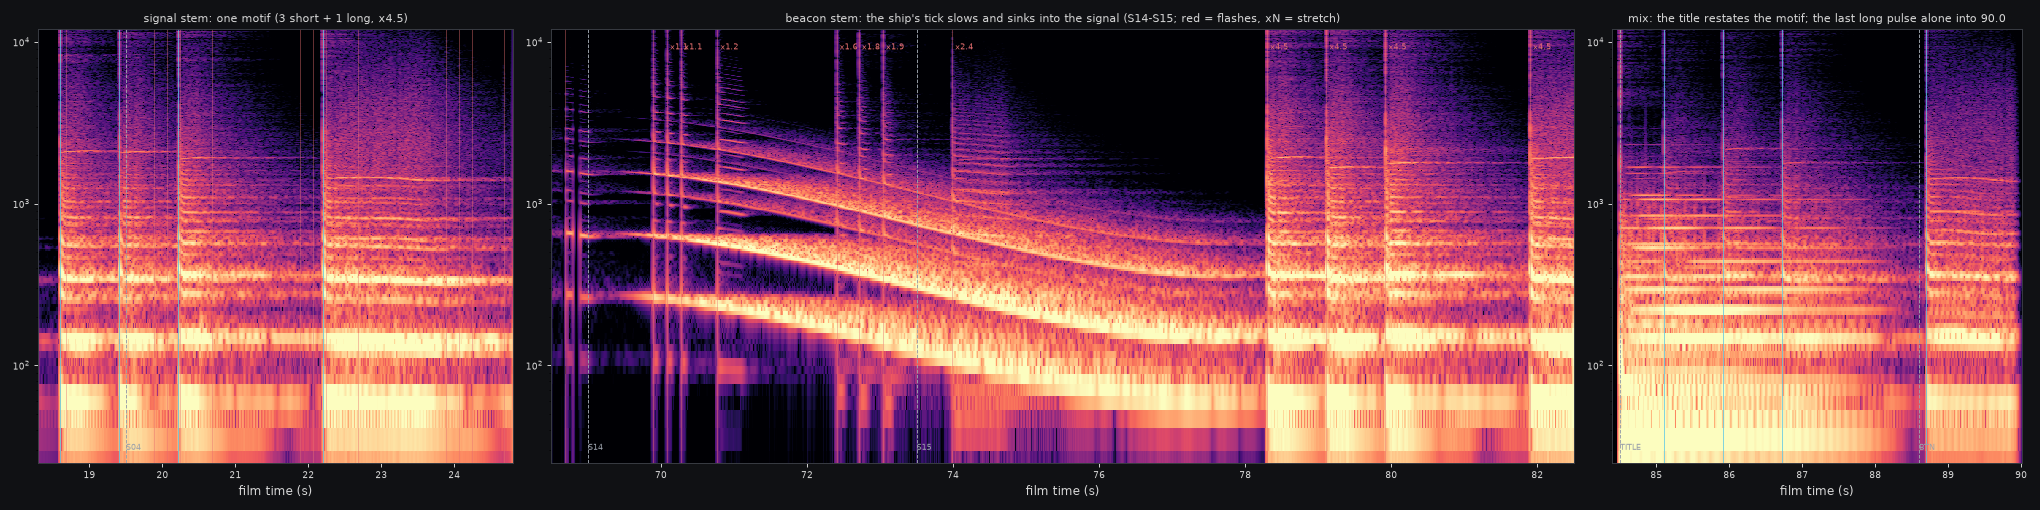
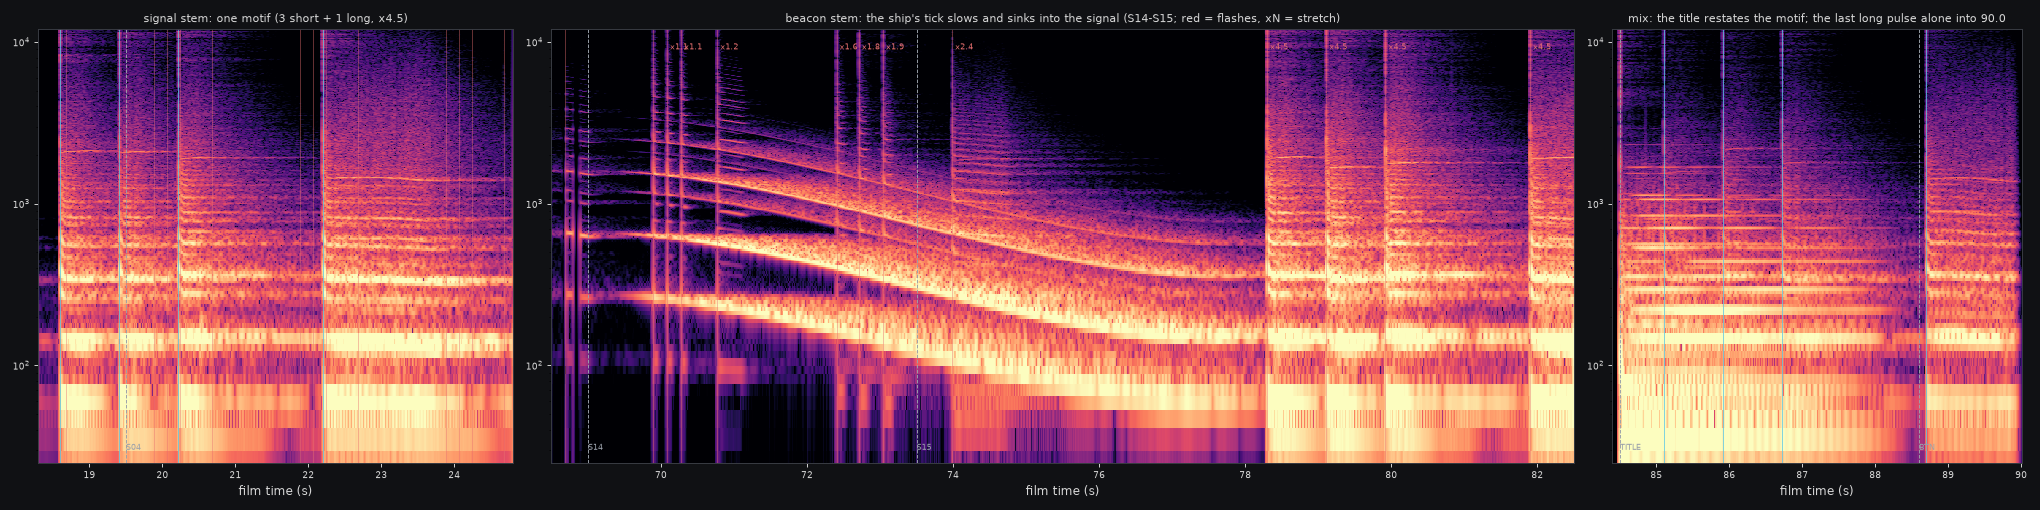
Audio rework levels (Act I +8 dB, LRA 12.4 LU, last motif above the signal); physics P21 steered clock; PROGRESS; render request tls90-preview-2
Claude-Session: https://claude.ai/code/session_012RKX6WzZMWJcPfeVrucKtW

diff --git a/production/audio/elements.py b/production/audio/elements.py
@@ -59,7 +59,7 @@ def ride_db(t: float) -> float:
     return float(np.interp(t, [a for a, _ in ACT_RIDE], [b for _, b in ACT_RIDE]))
 
 
-LAST_MOTIF_DB = 7.0        # the fall's last motif (the ship as the signal) sits above the signal's level
+LAST_MOTIF_DB = 8.5        # the fall's last motif (the ship as the signal) sits above the signal's level
 WARP_BETA = 0.45           # sound time-dilation = (dtau/dt)^beta (cinema: physical beta = 1)
 SOUND_MAX_STRETCH = 10.0   # cap for the sound of a flash (x25 would put the root at 26 Hz)
 
@@ -669,7 +669,7 @@ def cue_braam(mix, cue) -> None:
     t0 = cue.t + 0.8
     t_end = S("S12", cue.t + 14.0)
     m = n_of(t_end - t0 + 1.0)
-    lv = dsp.curve(m, [(t0, -60), (t0 + 3.0, -31), (t_end - 3.0, -30), (t_end, -28), (t_end + 1.0, -60)], t0, "db")
+    lv = dsp.curve(m, [(t0, -60), (t0 + 3.0, -27), (t_end - 3.0, -26), (t_end, -25), (t_end + 1.0, -60)], t0, "db")
     ch = np.stack([motif_cluster(D2 * (1 + (-1) ** c * 0.0006), m, dsp.curve(m, [(0, 0.3), (6.0, 1.0), (m / SR, 1.0)]),
                                  dsp.curve(m, [(0, 3.0), (m / SR, 9.0)]), f"awe{c}") for c in range(2)], 1)
     ch += 0.5 * np.stack([motif_cluster(D3, m, 0.45, 5.0, f"aweh{c}") for c in range(2)], 1)
@@ -745,7 +745,7 @@ def cue_shepard_riser(mix, cue) -> None:
     u2 = np.clip((t - (T_SLOW - t0)) / max(t1 - T_SLOW, 0.1), 0, 1)
     root = D2 * 2.0 ** (2.0 * u ** 1.7 + 0.5 * u2)
     y = motif_cluster(root, n, 0.15 + 0.85 * u, 3.0 + 16.0 * u, "rise")
-    lvl = dsp.curve(n, [(t0, -60), (t0 + 1.0, -40), (S("S13", 65.0), -30), (T_SLOW, -22), (max(t1, T_SLOW + 0.1), -21)],
+    lvl = dsp.curve(n, [(t0, -60), (t0 + 0.6, -34), (S("S13", 65.0), -28), (T_SLOW, -22), (max(t1, T_SLOW + 0.1), -21)],
                      t0, "db") * dsp.fade(n, 0, n_of(0.5))
     mix.add("music", dsp.widen(y * lvl * 0.9, 0.7, "rise"), t0, sends={"void": 0.3})
     nz = dsp.tv_filter(dsp.colored(n, dsp.rng("riser"), -3.0), 300.0 * 11 ** u, 2.0, "bp", 64)

diff --git a/PROGRESS.md b/PROGRESS.md
@@ -2,8 +2,8 @@
 
 ## Current phase
 
-**Phase 2 → 3: all 19 shots exist and render; first full-quality-ish preview cut (960 px, every
-frame, with the soundtrack) goes to the farm as `tls90-preview-1`. Next: reviewer passes.**
+**Phase 3: review round 1 done; preview cut 2 (960 px, every frame, new soundtrack) on the farm as
+`tls90-preview-2`. preview-1 was cancelled mid-render: it showed the pre-review film.**
 
 Previews published so far:
 - `tls90-previs-1` (draft, every 2nd frame, no final ship/sound): https://github.com/Artemiy12A/the-last-signal/releases/tag/tls90-previs-1
@@ -30,6 +30,18 @@ Previews published so far:
   - S14 rebuilt as "last look", a beacon macro against the shadow.
   - S15 moved to a high vantage (18° above the disk) so it no longer repeats S10.
   - Time dilation made continuous S14→S15 (physics P15).
+
+- Review round 1 (independent picture + sequence reviewers, 2026-09-29), acted on:
+  - EDL retimed: reveal at 46 s, S11 a 2.5 s speck, S12 5 s, S13 4 s, S14 4.5 s, S15 9 s.
+  - The twist made readable: steered ship clock (physics P21), the fall ends on one complete motif at
+    the signal's x4.5; the title restates it; the long pulse lands in the black with a red point.
+  - S15 beacon = a 6000 K point that reddens and dims inside the dimmed disk; S14→S15 match cut.
+  - Reveal protected (S04/S05 lensed stars only, S07 an edge glimpse).
+  - House grade desaturated (0.94 → ~0.65 median saturation of bright pixels) with white-hot highlights.
+  - Streaks soft-kneed and shortened; frame-edge smear fixed; ship relit (hard keys, rims).
+  - S11 true speck; S12 black shadow; S13 blue shift; title heavier + ring echo + grain.
+  - Sound: S15 onsets from the EDL, reveal hit + riser from the motif (no braam/Shepard), Act I
+    +8 dB, LRA 12.4 LU.
 
 ## Next
 

diff --git a/docs/physics.md b/docs/physics.md
@@ -837,6 +837,7 @@ What the renderer actually does, and where it departs:
 | P18 | sound: per-flash time stretch capped at ×10 | ×25 by the end of S15 | the root would fall to 26 Hz |
 | P19 | sound: measured flash fade (≈ g⁴) compressed (gain^0.3 in detection, applied as ^0.5) | g⁴ | the last flashes must stay audible |
 | P20 | S15 seen from 65 M, 18° above the disk plane; camera clock starts at 72 M so the fall lands inside the shot | — | a different vantage from the reveal (S10, 4°) for the climax |
+| P21 | the ship's clock is steered (`edl.ship_rate`): eased from x1 at S14 to exactly x4.5 at 77.9 s and held there, so the fall ends on one complete motif at the signal's tempo; S15's flash timing follows this clock while the beacon's position, lensing, colour (T·g) and dimming come from the traced worldline; the beacon is a 6000 K xenon point with dimming g^2 | the observed rate falls continuously toward zero (g ≈ 0.8 → 0.15 over the shot) and the flux as g^4 | the audience must hear the ship's tick become the signal, and see the point until the cut |
 
 ## 13. References
 
